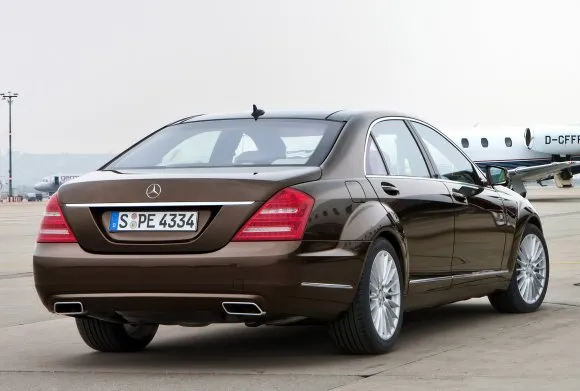
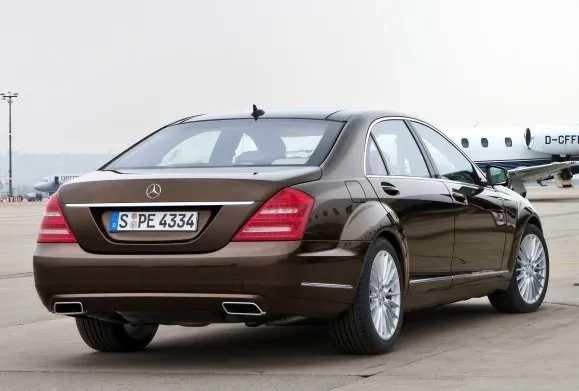
246

diff --git a/pic/ja_mb_img_s.html b/pic/ja_mb_img_s.html
@@ -620,7 +620,7 @@
 						<h5 class="i">Facelift</h5>
 						<p class="i m1">2009</p><br>
 						<a href="full/s/w221_f2.jpg"><img loading="lazy" src="style/s/w221_f2.webp" alt="メルセデス,W221,Sクラス,5th,フロント" width="626" height="391"></a>
-						<a href="full/s/w221_r2.jpg"><img loading="lazy" src="style/s/w221_r2.webp" alt="メルセデス,W221,Sクラス,5th,リヤ" width="580" height="391"></a>
+						<a href="full/s/w221_r2.jpg"><img loading="lazy" src="style/s/w221_r2.webp" alt="メルセデス,W221,Sクラス,5th,リヤ" width="579" height="391"></a>
 						<div>
 							<div class="box41"><br>
 								<a href="full/s/w221_d2.jpg"><img loading="lazy" src="style/s/w221_d2.webp" alt="メルセデス,W221,Sクラス,5th,ダッシュボード" width="404" height="303"></a><br>

diff --git a/pic/mb_img_s.html b/pic/mb_img_s.html
@@ -620,7 +620,7 @@
 						<h5 class="i">Modellpflege</h5>
 						<p class="i m1">2009</p><br>
 						<a href="full/s/w221_f2.jpg"><img loading="lazy" src="style/s/w221_f2.webp" alt="Mercedes,W221,S-klasse,5te,Frontansicht" width="626" height="391"></a>
-						<a href="full/s/w221_r2.jpg"><img loading="lazy" src="style/s/w221_r2.webp" alt="Mercedes,W221,S-klasse,5te,Rückansicht" width="580" height="391"></a>
+						<a href="full/s/w221_r2.jpg"><img loading="lazy" src="style/s/w221_r2.webp" alt="Mercedes,W221,S-klasse,5te,Rückansicht" width="579" height="391"></a>
 						<div>
 							<div class="box41"><br>
 								<a href="full/s/w221_d2.jpg"><img loading="lazy" src="style/s/w221_d2.webp" alt="Mercedes,W221,S-klasse,5te,Instrumententafel" width="404" height="303"></a><br>

diff --git a/pic/en_mb_img_s.html b/pic/en_mb_img_s.html
@@ -620,7 +620,7 @@
 						<h5 class="i">Facelift</h5>
 						<p class="i m1">2009</p><br>
 						<a href="full/s/w221_f2.jpg"><img loading="lazy" src="style/s/w221_f2.webp" alt="Mercedes,W221,S-class,5th,Front view" width="626" height="391"></a>
-						<a href="full/s/w221_r2.jpg"><img loading="lazy" src="style/s/w221_r2.webp" alt="Mercedes,W221,S-class,5th,Rear view" width="580" height="391"></a>
+						<a href="full/s/w221_r2.jpg"><img loading="lazy" src="style/s/w221_r2.webp" alt="Mercedes,W221,S-class,5th,Rear view" width="579" height="391"></a>
 						<div>
 							<div class="box41"><br>
 								<a href="full/s/w221_d2.jpg"><img loading="lazy" src="style/s/w221_d2.webp" alt="Mercedes,W221,S-class,5th,Dashboard" width="404" height="303"></a><br>
